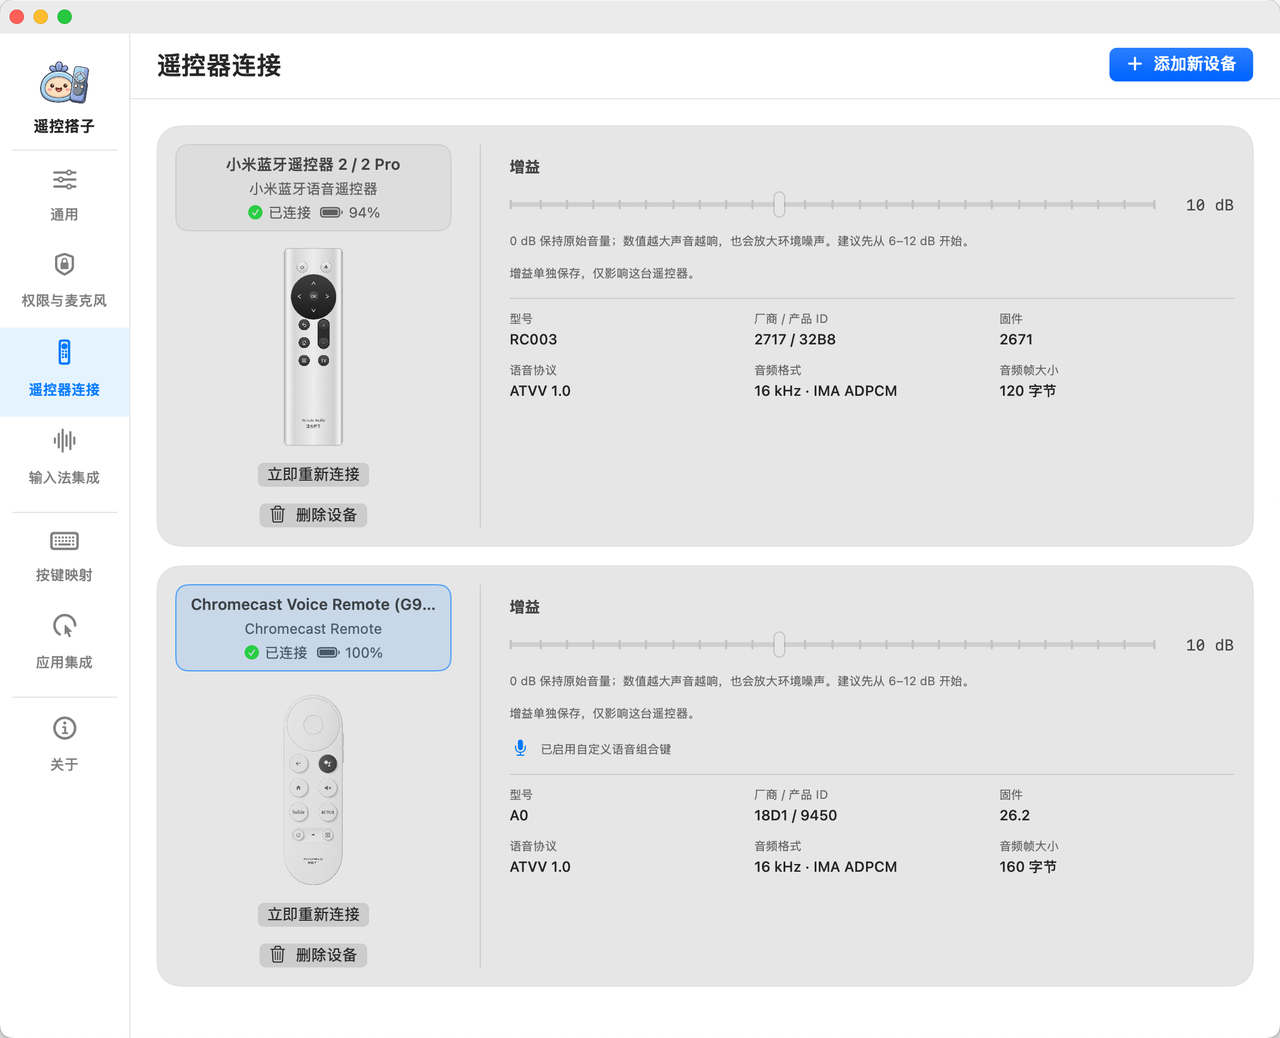
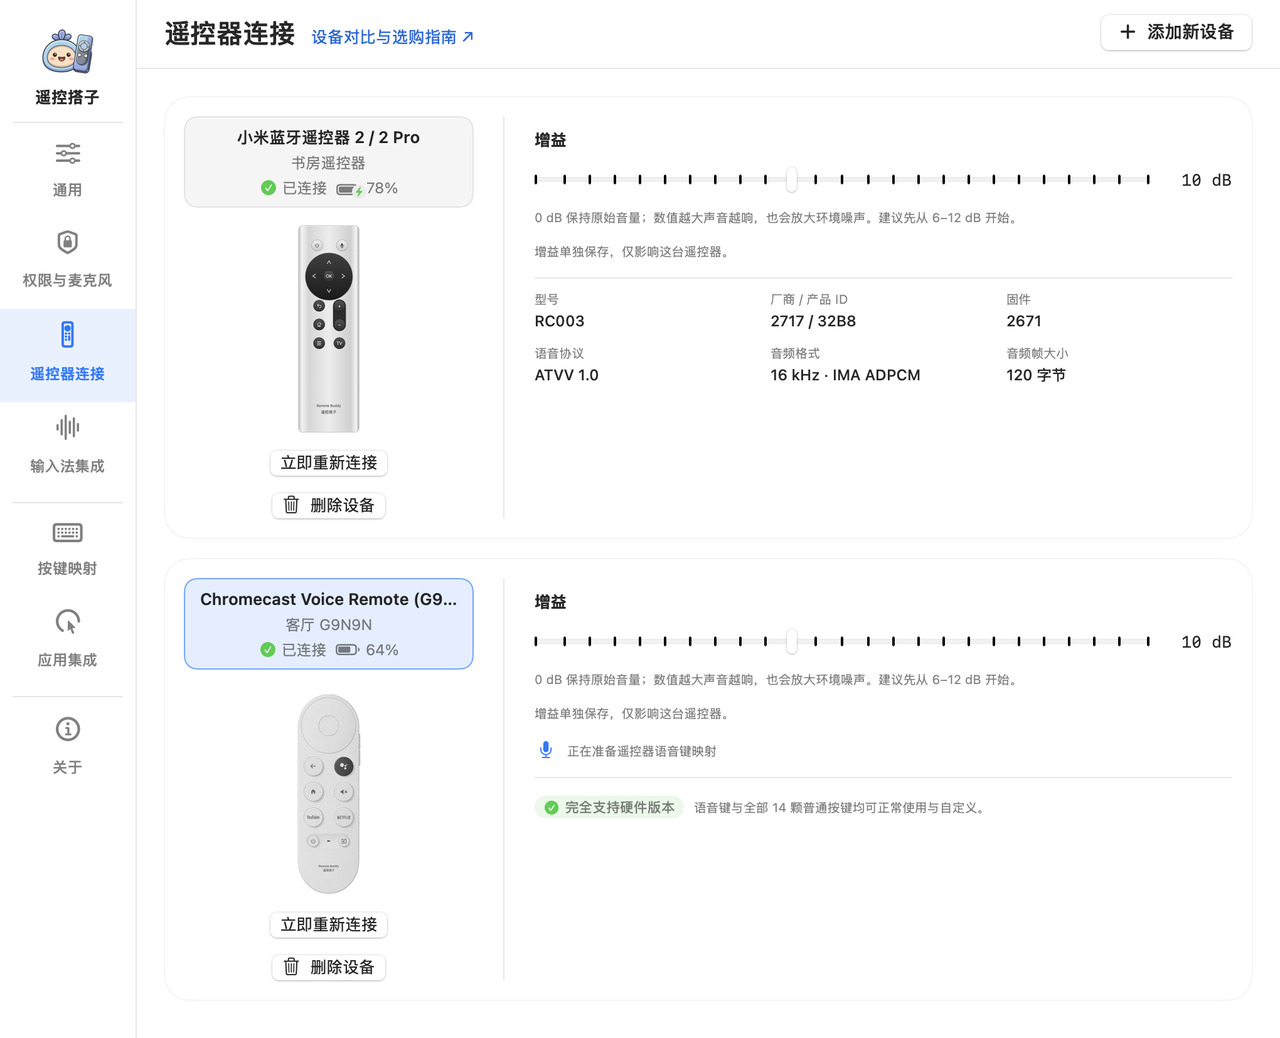
refactor(settings): make integration voice tool list read-only (#205)
* refactor(settings): make integration voice tool list read-only

* refactor(settings): polish divider spacing and remove redundant integration hints

* docs(readme): refresh connection and integration screenshots

* docs(pages): refresh connection and integration screenshots

diff --git a/Sources/RemoteBuddy/Settings/SettingsView.Integrations.swift b/Sources/RemoteBuddy/Settings/SettingsView.Integrations.swift
@@ -28,25 +28,32 @@ extension SettingsView {
                     }
                     .frame(maxWidth: .infinity, alignment: .leading)
                 }
-                HStack(alignment: .center, spacing: 12) {
-                    Text(localization.text("settings.integration.select_tool"))
-                        .font(.headline)
-                    Spacer()
+                HStack(spacing: 20) {
+                    Rectangle()
+                        .fill(Color.primary.opacity(0.18))
+                        .frame(maxWidth: .infinity, minHeight: 1, maxHeight: 1)
                     Button(localization.text("settings.integration.configure")) {
-                        if let tool = integrationToolSelection {
-                            SettingsPageBehavior.beginIntegrationSetup(tool: tool, settings: settings)
-                        }
+                        SettingsPageBehavior.beginIntegrationSetup(
+                            tool: settings.onboardingVoiceTool,
+                            settings: settings
+                        )
                     }
                     .compatibilityButtonStyle(.prominent)
                     .controlSize(.large)
-                    .disabled(integrationToolSelection == nil)
+                    .fixedSize()
+                    Rectangle()
+                        .fill(Color.primary.opacity(0.18))
+                        .frame(maxWidth: .infinity, minHeight: 1, maxHeight: 1)
                 }
+                .padding(.vertical, 8)
+                Text(localization.text("settings.integration.supported_tools"))
+                    .font(.headline)
                 LazyVGrid(columns: [GridItem(.flexible()), GridItem(.flexible())], spacing: 14) {
                     ForEach(OnboardingVoiceToolVisibilityPolicy.tools) { tool in
                         integrationToolCard(tool)
                     }
                 }
-                if integrationToolSelection == .voiceBuddy {
+                if settings.onboardingVoiceTool == .voiceBuddy {
                     GlassPanel {
                         HStack(alignment: .top, spacing: 10) {
                             Image(systemName: "waveform.circle.fill")
@@ -72,40 +79,45 @@ extension SettingsView {
             }
         }
         .onAppear {
-            integrationToolSelection = OnboardingVoiceToolVisibilityPolicy.tools.contains(settings.onboardingVoiceTool)
-                ? settings.onboardingVoiceTool : nil
             model.refreshVoiceKeyCompatibilityWarning()
             model.refreshAudioDevices()
         }
     }
 
     private func integrationToolCard(_ tool: OnboardingVoiceTool) -> some View {
-        let selected = integrationToolSelection == tool
-        return Button {
-            integrationToolSelection = tool
-        } label: {
-            VStack(alignment: .leading, spacing: 8) {
-                HStack {
-                    Text(localization.text(tool.titleKey))
-                        .font(.headline)
-                    Spacer()
-                    Image(systemName: selected ? "largecircle.fill.circle" : "circle")
-                        .foregroundStyle(selected ? Color.accentColor : Color.secondary)
+        let isSelected = settings.onboardingVoiceTool == tool
+        return VStack(alignment: .leading, spacing: 8) {
+            HStack(alignment: .firstTextBaseline, spacing: 8) {
+                Text(localization.text(tool.titleKey))
+                    .font(.headline)
+                Spacer(minLength: 0)
+                if isSelected {
+                    Text(localization.text("settings.integration.active_badge"))
+                        .font(.caption2.weight(.semibold))
+                        .foregroundStyle(.green)
+                        .padding(.horizontal, 8)
+                        .padding(.vertical, 3)
+                        .background(Color.green.opacity(0.12), in: Capsule())
                 }
-                Text(localization.text(tool.detailKey))
-                    .font(.caption).foregroundStyle(.secondary)
-                    .fixedSize(horizontal: false, vertical: true)
             }
-            .frame(maxWidth: .infinity, alignment: .leading)
-            .padding(16)
-            .background(selected ? Color.accentColor.opacity(0.09) : Color.primary.opacity(0.04),
-                        in: RoundedRectangle(cornerRadius: 16))
-            .overlay {
-                RoundedRectangle(cornerRadius: 16)
-                    .stroke(selected ? Color.accentColor : Color.primary.opacity(0.2), lineWidth: 1)
-            }
+            Text(localization.text(tool.detailKey))
+                .font(.caption).foregroundStyle(.secondary)
+                .fixedSize(horizontal: false, vertical: true)
         }
-        .buttonStyle(.plain)
-        .accessibilityAddTraits(selected ? .isSelected : [])
+        .frame(maxWidth: .infinity, maxHeight: .infinity, alignment: .topLeading)
+        .padding(16)
+        .background(
+            isSelected ? Color.green.opacity(0.07) : Color.primary.opacity(0.03),
+            in: RoundedRectangle(cornerRadius: 16)
+        )
+        .overlay {
+            RoundedRectangle(cornerRadius: 16)
+                .stroke(
+                    isSelected ? Color.green.opacity(0.8) : Color.primary.opacity(0.14),
+                    lineWidth: isSelected ? 1.5 : 1
+                )
+        }
+        .accessibilityElement(children: .combine)
+        .accessibilityAddTraits(isSelected ? .isSelected : [])
     }
 }

diff --git a/Tests/RemoteBuddyTests/ProductBoundaryTests.swift b/Tests/RemoteBuddyTests/ProductBoundaryTests.swift
@@ -255,6 +255,29 @@ struct ProductBoundaryTests {
         ])
     }
 
+    @Test @MainActor func integrationPageReadOnlyCopyExistsInBothLanguages() throws {
+        let suite = "remote-buddy.tests.\(UUID().uuidString)"
+        let defaults = try #require(UserDefaults(suiteName: suite))
+        defer { defaults.removePersistentDomain(forName: suite) }
+        let localization = LocalizationStore(settings: AppSettings(defaults: defaults))
+        let keys = [
+            "settings.integration.title",
+            "settings.integration.introduction",
+            "settings.integration.current",
+            "settings.integration.configure",
+            "settings.integration.supported_tools",
+            "settings.integration.active_badge",
+            "settings.integration.shortcut_title",
+        ]
+        for language in [AppLanguage.english, .simplifiedChinese] {
+            localization.select(language)
+            for key in keys {
+                let text = localization.text(key)
+                #expect(!text.isEmpty && text != key)
+            }
+        }
+    }
+
     @Test @MainActor func firstRunLanguageFollowsSystemAndExplicitChoicePersists() throws {
         let suite = "remote-buddy.tests.\(UUID().uuidString)"
         let defaults = try #require(UserDefaults(suiteName: suite))

diff --git a/Sources/RemoteBuddy/App/Testing/SettingsScreenshotRenderer.swift b/Sources/RemoteBuddy/App/Testing/SettingsScreenshotRenderer.swift
@@ -166,6 +166,11 @@ enum SettingsScreenshotRenderer {
             ]
         }
         _ = usesSiriRemote
+        if let voiceTool = ProcessInfo.processInfo.environment[
+            "REMOTE_BUDDY_SETTINGS_SCREENSHOT_VOICE_TOOL"
+        ].flatMap(OnboardingVoiceTool.init(rawValue:)) {
+            settings.setOnboardingVoiceTool(voiceTool)
+        }
         if usesChromecast {
             let identifier = chromecastScreenshotProfileID
                 ?? settings.registerBluetoothRemote(identifier: UUID(), model: .chromecastVoiceRemote)

diff --git a/Sources/RemoteBuddy/Settings/SettingsView.MappingPage.swift b/Sources/RemoteBuddy/Settings/SettingsView.MappingPage.swift
@@ -410,9 +410,6 @@ extension SettingsView {
             Label(localization.text(settings.voiceFnTapModeEnabled
                 ? "settings.integration.tap_enabled" : "settings.integration.tap_disabled"),
                 systemImage: "hand.tap")
-            Text(localization.text("settings.integration.trigger_readonly"))
-                .font(.caption).foregroundStyle(.secondary)
-                .fixedSize(horizontal: false, vertical: true)
         }
     }
 

diff --git a/Sources/RemoteBuddy/Settings/SettingsView.swift b/Sources/RemoteBuddy/Settings/SettingsView.swift
@@ -24,7 +24,6 @@ struct SettingsView: View {
     @State var remoteRemovalProfile: RemoteDeviceProfile?
     @State var isRemoteRemovalPresented = false
     @State var selectedSection: SettingsSection
-    @State var integrationToolSelection: OnboardingVoiceTool?
     @State var selectedRemoteButton: RemoteButton = .ok
     @State private var selectedSiriRemoteControlID = "select"
     @State private var selectedChromecastControlID = "select"

diff --git a/scripts/generate-website-screenshots.py b/scripts/generate-website-screenshots.py
@@ -88,13 +88,20 @@ def main():
                 print(f"Optimizing {target_file.name}...")
                 optimize_png(source_file, target_file)
 
-            # Include all G9N9N media buttons and both connection cards in full.
-            for section, height, cards in [("mapping", 980, "0"), ("connection", 860, "1")]:
-                render_settings(bin_path, lang_code, Path(tmp_settings_dir), {
+            # Include all G9N9N media buttons and both connection cards in full, plus an active voice tool on integration.
+            for section, height, cards, voice_tool in [
+                ("mapping", 980, "0", ""),
+                ("connection", 860, "1", ""),
+                ("integration", 772, "1", "weixin"),
+            ]:
+                overrides = {
                     "REMOTE_BUDDY_SETTINGS_SCREENSHOT_SECTION": section,
                     "REMOTE_BUDDY_SETTINGS_SCREENSHOT_REMOTE_CARDS": cards,
                     "REMOTE_BUDDY_SETTINGS_SCREENSHOT_SIZE": f"1020x{height}",
-                })
+                }
+                if voice_tool:
+                    overrides["REMOTE_BUDDY_SETTINGS_SCREENSHOT_VOICE_TOOL"] = voice_tool
+                render_settings(bin_path, lang_code, Path(tmp_settings_dir), overrides)
                 optimize_png(Path(tmp_settings_dir) / f"{section}-1020x{height}.png",
                              OUTPUT_DIR / f"{section}-{lang_suffix}.png")
 
